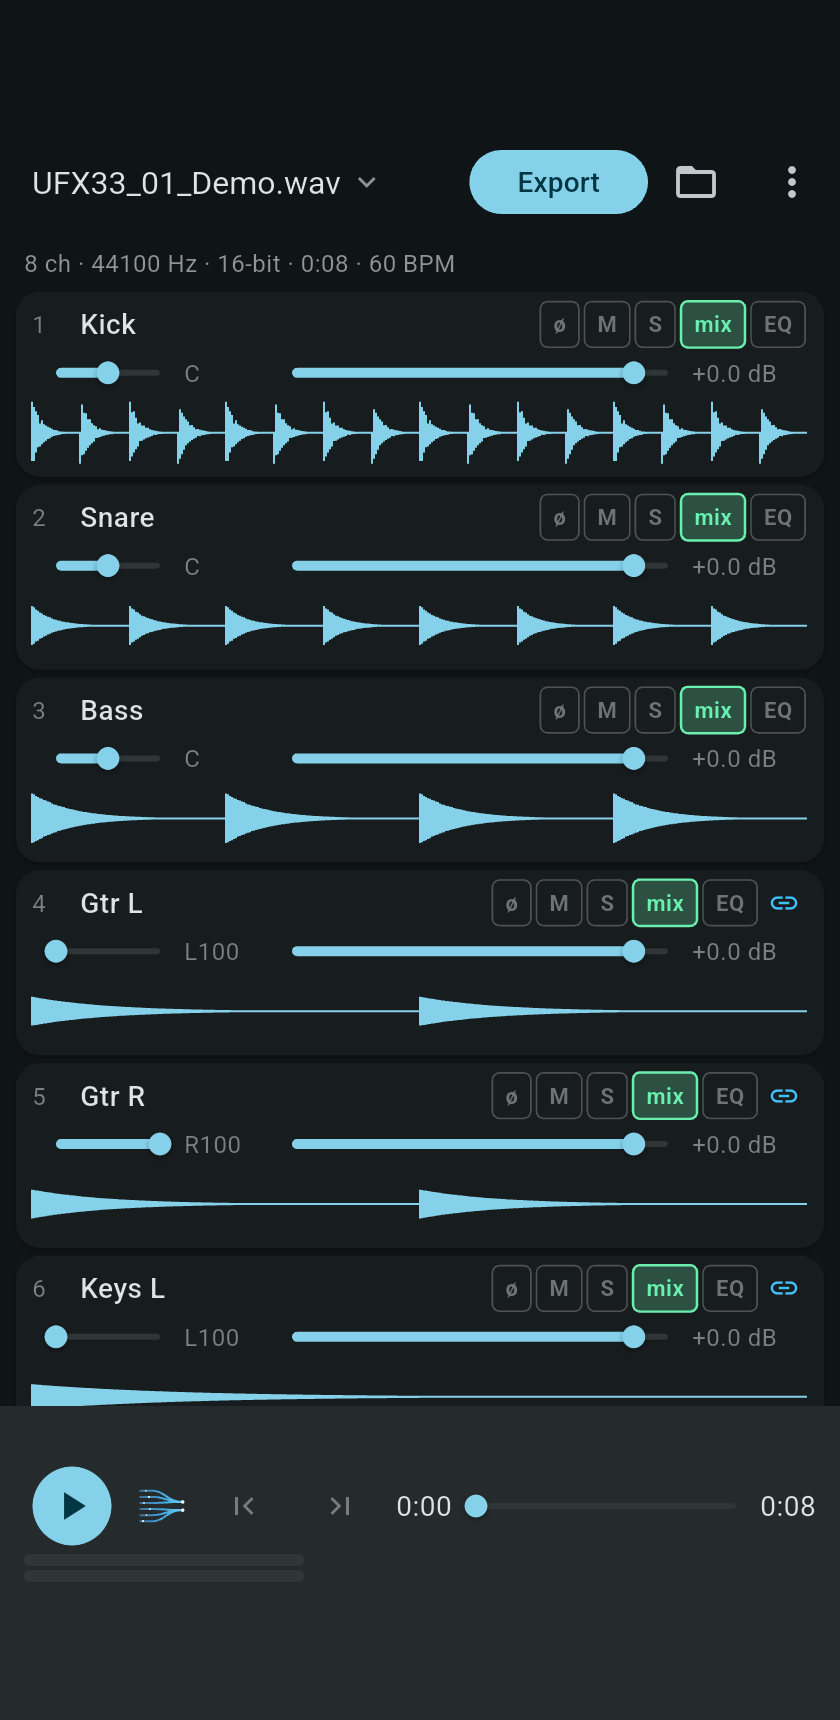
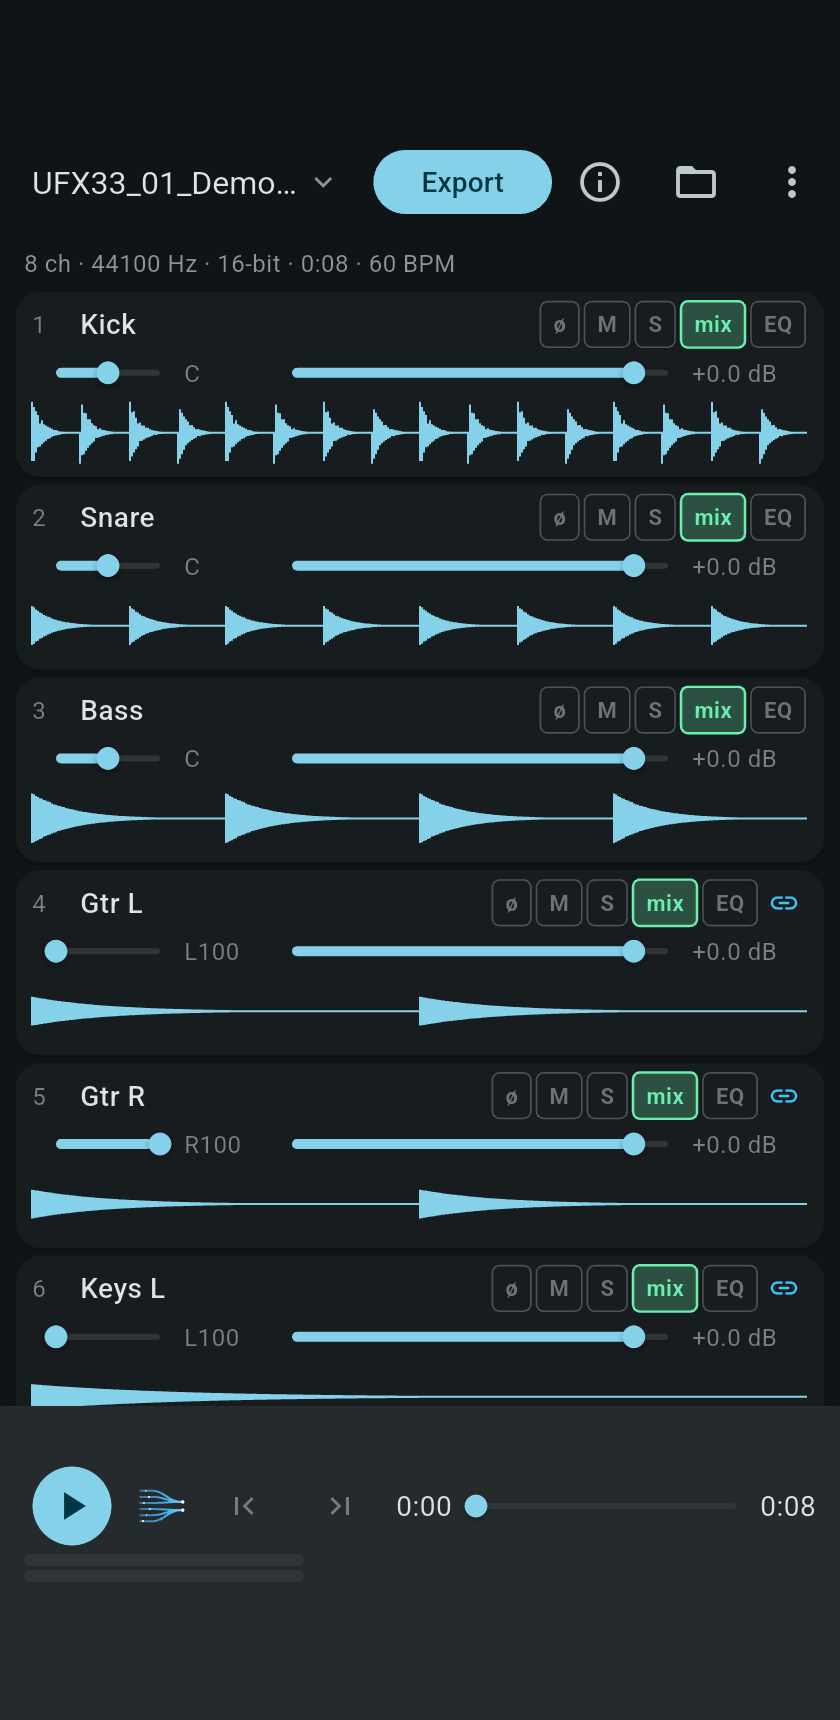
chore: bump version to 0.12.2 (#54)
* docs: refresh Android phone screenshots for the About button

Regenerated from a booted emulator via tool/make_screenshots.sh; the
phone shot now marks the ⓘ About button (callout 2), matching the
desktop set. Docs/test-tooling only — no version bump.

* chore: bump version to 0.12.2

Ships the code-health refactor (#52): MixerState split into focused
controllers, dialogs extracted, color tokens, MixerScope injection, plus
housekeeping (#45–#51). No user-facing behavior change.

---------

Changed region(s): [[0.4333, 0.0616, 0.5881, 0.1233], [0.619, 0.0616, 0.7738, 0.1233], [0.3405, 0.0924, 0.4024, 0.1233]]

diff --git a/integration_test/app_test.dart b/integration_test/app_test.dart
@@ -744,6 +744,8 @@ Future<void> _captureDocScreenshots(
   await tester.pumpAndSettle();
   await shot('phone', [
     ('Export (progress shows here while rendering)', find.text('Export')),
+    ('About — version, update status, feedback',
+        find.byIcon(Icons.info_outline)),
     (
       'Everything else lives in the overflow menu',
       find.byType(PopupMenuButton<String>),